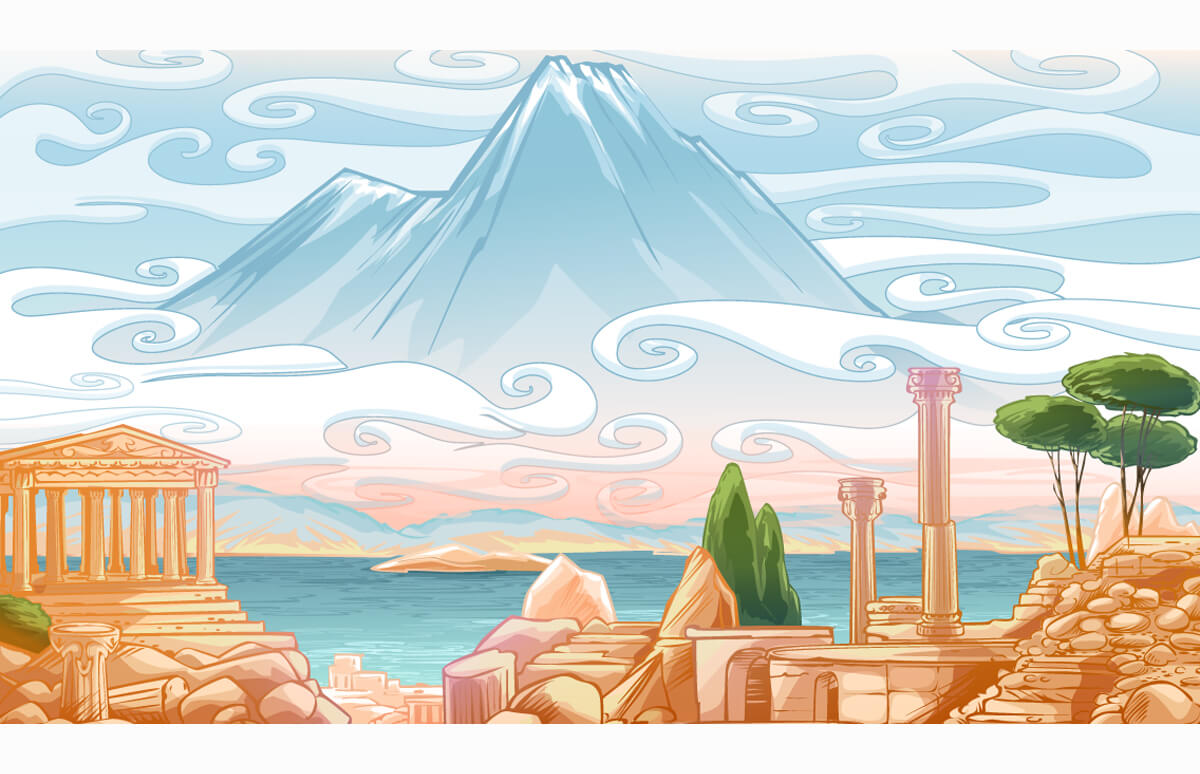
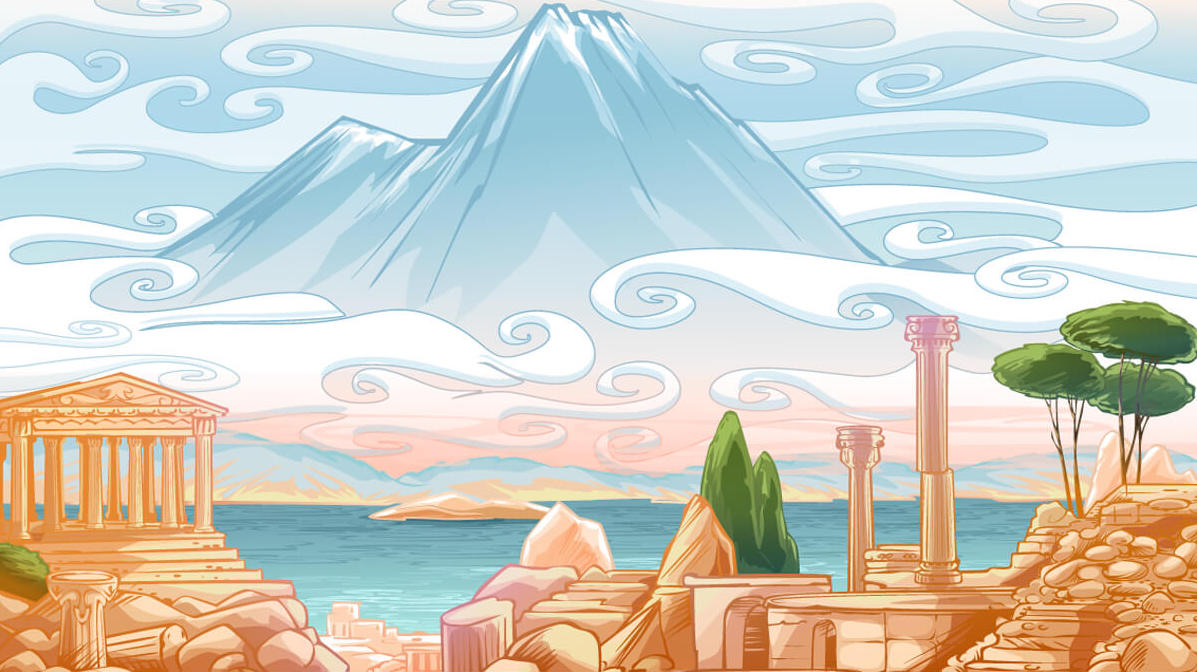
updated background so it doesn't show white at the top

diff --git a/client/src/views/ui.js b/client/src/views/ui.js
@@ -12,7 +12,6 @@ var UI = function (){
   this.content = document.querySelector("#content");
   // this.button = document.createElement('button');
   this.body = document.querySelector('body');
-  this.infoDiv = null;
   this.infoDiv = document.createElement("div");
   // this.inputButton = document.createElement("input");
   // this.inputButton.value = 700;
@@ -57,7 +56,7 @@ UI.prototype = {
     buttonDiv.appendChild(button);
     
     button.onclick = function(){
-      this.infoDiv.innerHTML = null;
+      this.infoDiv.visibility = "hidden";
       var currentScrollPos = document.querySelector("#view").scrollLeft;
       this.viewLogic.scrollMaster(currentScrollPos + 400, this.nextCharacter.bind(this));
     }.bind(this);

diff --git a/client/build/bundle.js b/client/build/bundle.js
@@ -71,7 +71,6 @@
 	  this.content = document.querySelector("#content");
 	  // this.button = document.createElement('button');
 	  this.body = document.querySelector('body');
-	  this.infoDiv = null;
 	  this.infoDiv = document.createElement("div");
 	  // this.inputButton = document.createElement("input");
 	  // this.inputButton.value = 700;
@@ -116,7 +115,7 @@
 	    buttonDiv.appendChild(button);
 	    
 	    button.onclick = function(){
-	      this.infoDiv.innerHTML = null;
+	      this.infoDiv.visibility = "hidden";
 	      var currentScrollPos = document.querySelector("#view").scrollLeft;
 	      this.viewLogic.scrollMaster(currentScrollPos + 400, this.nextCharacter.bind(this));
 	    }.bind(this);
